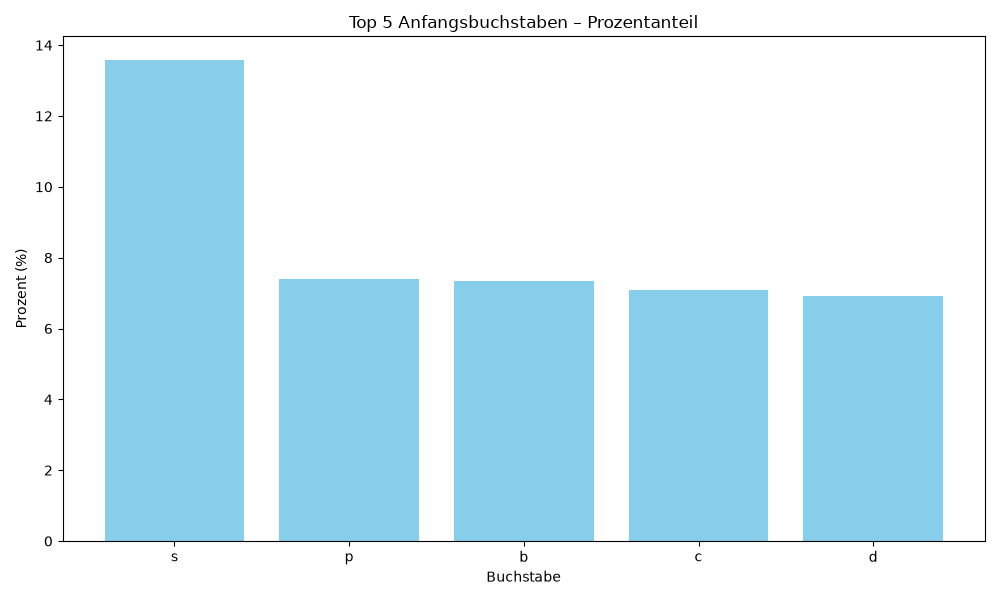
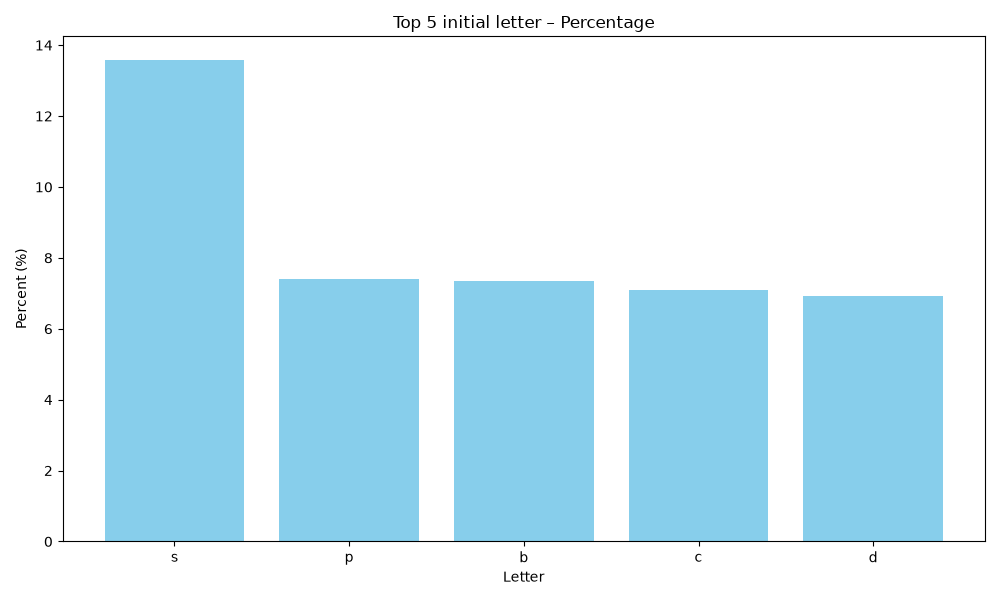
function for avg syllables by length with a plot

diff --git a/src/evaluate.py b/src/evaluate.py
@@ -183,9 +183,9 @@ def top_5_first_letters(file):
     
     plt.figure(figsize=(10, 6)) #creates diagramm
     plt.bar(top5.index, top5["percent"], color="skyblue")
-    plt.title("Top 5 Anfangsbuchstaben – Prozentanteil")
-    plt.xlabel("Buchstabe")
-    plt.ylabel("Prozent (%)")
+    plt.title("Top 5 initial letter – Percentage")
+    plt.xlabel("Letter")
+    plt.ylabel("Percent (%)")
     plt.tight_layout()
 
     data_folder = Path(__file__).resolve().parent.parent / "data" #saves diagramm
@@ -198,3 +198,38 @@ def top_5_first_letters(file):
 
 #print(top_5_first_letters("../data/CMUdict_5_to_7_without_propn.pkl")) #prints top 5 from wordle dick
 print(top_5_first_letters("../data/CMUdict_5_to_7_without_propn.pkl"))
+
+def avg_syllables_by_length_with_plot(file):
+
+    words = bd.read_pickle(file) #load words
+
+    if isinstance(words, dict): #takes key and values
+        df = pd.DataFrame([
+            {"word": w, 
+             "length": len(w), 
+             "syllables": words[w].get("syllables_count")}
+            for w in words.keys()
+        ])
+    else:
+        raise ValueError("Das Wörterbuch muss ein dict sein (wie propertie_dict.pkl).")
+
+    df["syllables"] = pd.to_numeric(df["syllables"], errors="coerce") #make syllables to numbers
+
+    result = df.groupby("length")["syllables"].mean().round(3) #calculate average
+
+    plt.figure(figsize=(10, 6)) #creates diagramm
+    plt.bar(result.index, result.values, color="skyblue")
+    plt.title("Average number of syllables per word")
+    plt.xlabel("Word length (number of letters)")
+    plt.ylabel("Average syllables")
+    plt.tight_layout()
+
+    data_folder = Path(__file__).resolve().parent.parent / "data" #save diagramm
+    plt.savefig(data_folder / "avg_syllables_by_length.png")
+    plt.close()
+
+    print("Diagramm 'avg_syllables_by_length.png' wurde erstellt.")
+    return result
+
+if __name__ == "__main__":
+    print(avg_syllables_by_length_with_plot("../data/propertie_dict.pkl"))
